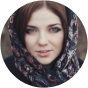
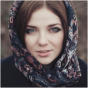
intro pt1

diff --git a/styles/intro.css b/styles/intro.css
@@ -1,0 +1,56 @@
+.intro{
+  background-image:url(../assets/images/Background_Intro.png);
+  background-size: cover;
+  display: flex;
+  text-align: center;
+  justify-content: center;
+}
+.info{
+  margin-top: 120px;
+}
+section{
+  position: relative;
+  width: 112px;
+  height: 112px;
+  margin-bottom: 56px;
+  display: inline-flex;
+  justify-content: center;
+  align-items: center;
+
+  img:nth-child(1){
+    border: 2px solid #E3646E;
+    border-radius: 50px;
+    padding: 4.36px;
+    width: 87.27px;
+    height: 87.27px;
+    display: block;
+  }
+
+  img:nth-child(2){
+    position: absolute;
+    right: 0;
+    bottom: 0;
+    margin: 5px;
+    width: 32px;
+    height: 32px;
+  }
+  
+}
+
+.sub{
+  font: var(--subtitle);
+  color: var(--gray-500);
+  span{
+    color: var(--red);
+  }
+}
+
+h1{
+  font: var(--title-lg);
+  color: var(--gray-600);
+}
+
+p{
+  font: var(--text-sm);
+  color: var(--gray-400);
+}

diff --git a/index.html b/index.html
@@ -16,6 +16,18 @@
   <title>Portifolio Dev</title>
 </head>
 <body>
- <a href="#">Exemplo</a>
+ <div class="intro">
+  <div class="info">
+    <header>
+      <section>
+        <img src="assets/images/MartinaSantos.png" alt="Martina Santos Photo">
+        <img class="tag" src="assets/icons/Code.svg" alt="icone de codigo">
+      </section>
+      <p class="sub">Hello World! Meu nome é <span>Martina Santos</span> e sou</p>
+      <h1>Desenvolvedora Fullstack</h1>
+      <p>Transformo necessidades em aplicações reais, evolventes e funcionais. Desenvolvo sistemas através da <br> minha paixão pela tecnologia, contribuindo com soluções inovadoras e eficazes para desafios complexos.</p>
+    </header>
+  </div>
+ </div>
 </body>
 </html>

diff --git a/styles/index.css b/styles/index.css
@@ -1,1 +1,2 @@
 @import url(global.css);
+@import url(intro.css);
